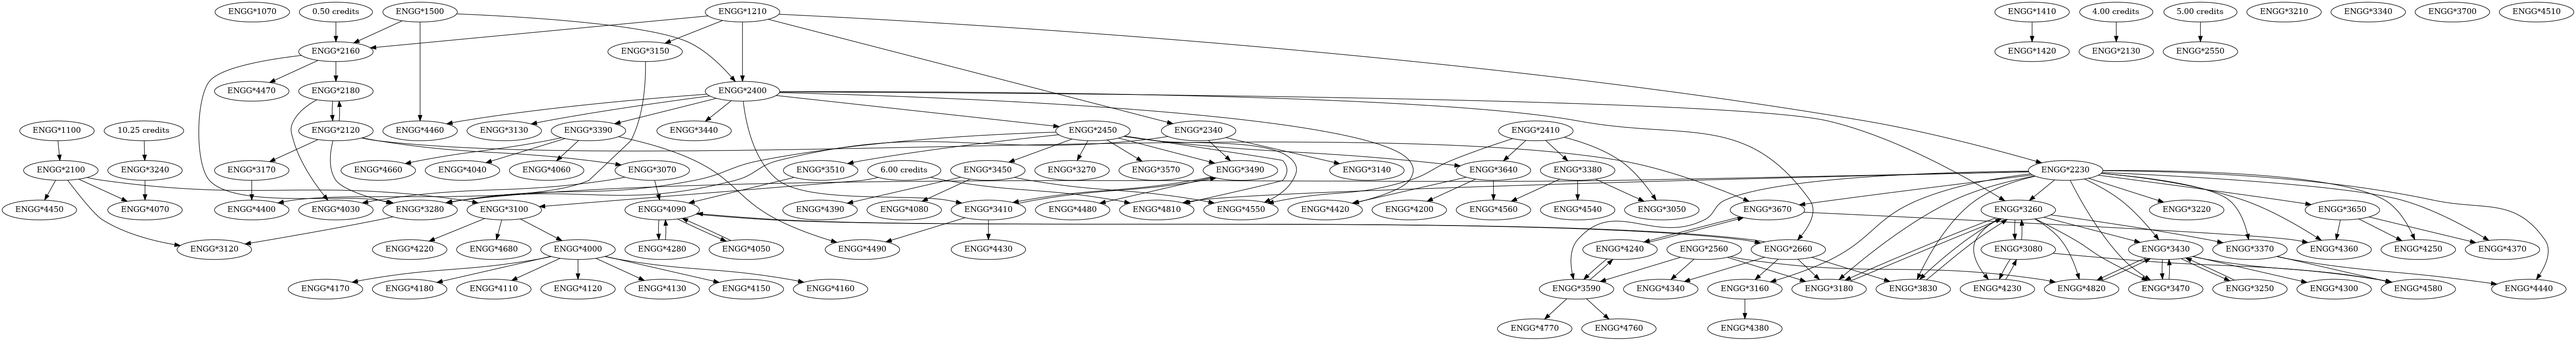
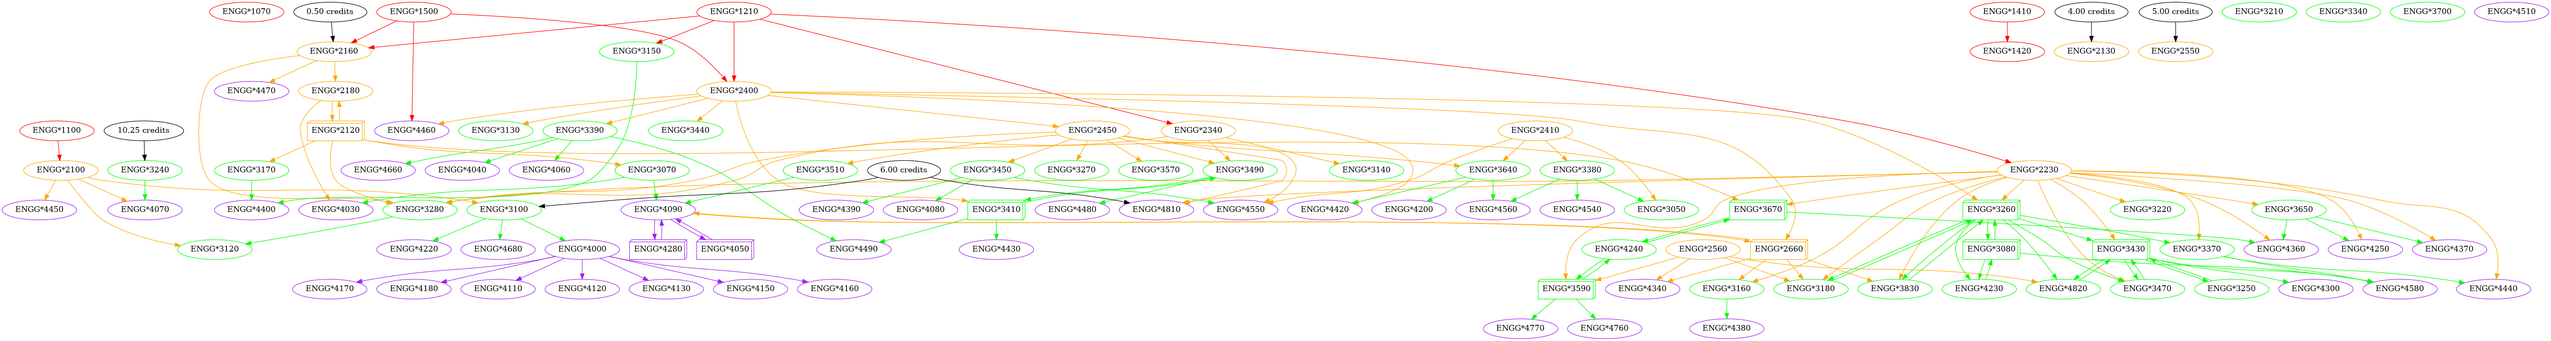
added colouring to major graph

diff --git a/course_graphs/graphFunctions.py b/course_graphs/graphFunctions.py
@@ -46,18 +46,71 @@ def generateGraphByMajor(graph, all_courses, majorName):
     #loop through courses in specified major
     for k, v in all_courses[majorName].items():
         #add node for course 
-        graph.add_node(k)
+        #graph.add_node(k)
+        if(k[len(k) - 4] == '1'):
+            graph.add_node(k, color="red")
+        elif(k[len(k) - 4] == '2'):
+            graph.add_node(k, color="orange")
+        elif(k[len(k) - 4] == '3'):
+            graph.add_node(k, color="green")
+        elif(k[len(k) - 4] == '4'):
+            graph.add_node(k, color="purple")
+        else:
+            graph.add_node(k)
 
         #add edges between prereqs and course
         prereqsList = parseReqs(v["prereqs"], majorName)
         for prereq in prereqsList:
-            graph.add_edge(prereq, k)
+            #graph.add_edge(prereq, k)
+            print(level_counter)
+            if(prereq[len(prereq) - 4] == '1'):
+                graph.add_node(prereq, color="red")
+                graph.add_edge(prereq, k, color="red", shape="box")
+            elif(prereq[len(prereq) - 4] == '2'):
+                graph.add_node(prereq, color="orange")
+                graph.add_edge(prereq, k, color="orange")
+            elif(prereq[len(prereq) - 4] == '3'):
+                graph.add_node(prereq, color="green")
+                graph.add_edge(prereq, k, color="green")
+            elif(prereq[len(prereq) - 4] == '4'):
+                graph.add_node(prereq, color="purple")
+                graph.add_edge(prereq, k, color="purple")
+            else:
+                graph.add_edge(prereq, k)
+            
+            level_counter = level_counter + 1
+            
 
         #add edges in both directions between coreqs and course
         coreqsList = parseReqs(v["coreqs"], majorName)
         for coreq in coreqsList:
-            graph.add_edge(coreq, k)
-            graph.add_edge(k, coreq)
+            if(coreq[len(coreq) - 4] == '1'):
+                graph.add_node(coreq, color="red", shape="box3d")
+                graph.add_edge(coreq, k, color="red")
+                graph.add_node(k, color="red")
+                graph.add_edge(k, coreq, color="red")
+            elif(coreq[len(coreq) - 4] == '2'):
+                graph.add_node(coreq, color="orange", shape="box3d")
+                graph.add_edge(coreq, k, color="orange")
+                graph.add_node(k, color="orange")
+                graph.add_edge(k, coreq, color="orange")
+            elif(coreq[len(coreq) - 4] == '3'):
+                graph.add_node(coreq, color="green", shape="box3d")
+                graph.add_edge(coreq, k, color="green")
+                graph.add_node(k, color="green")
+                graph.add_edge(k, coreq, color="green")
+            elif(coreq[len(coreq) - 4] == '4'):
+                graph.add_node(coreq, color="purple", shape="box3d")
+                graph.add_edge(coreq, k, color="purple")
+                graph.add_node(k, color="purple")
+                graph.add_edge(k, coreq, color="purple")
+            else:
+                graph.add_edge(coreq, k)
+                graph.add_edge(k, coreq)
+                
+
+        level_counter = 0
+        
 
 def generateGraphByCourse(course_graph, all_courses, course, level_counter):
     """Recursivevly generates a graph for a specified course.
@@ -70,19 +123,11 @@ def generateGraphByCourse(course_graph, all_courses, course, level_counter):
     Returns:
         [course_graph]: [graph of specified course]
     """
-    #check if all_courses is dict
-    if isinstance(all_courses, dict):    
 
-        #traverse first layer of json data (ex. "ACCT", "AGR", "ANSC", etc...)
-        for k, v in all_courses.items():
-
-            #traverse second layer of json data (course codes)
-            for b, n in v.items():
-
+    if isinstance(all_courses, dict):           #check if all_courses is dict
+        for k, v in all_courses.items():        #traverse first layer of json data (ex. "ACCT", "AGR", "ANSC", etc...)
+            for b, n in v.items():              #traverse second layer of json data (course codes)
                 if (b == course):
-                    print(level_counter)
-                    print(b)
-
                     if n["prereqs"]:
                         pattern = re.compile(r"[a-zA-Z]+\*[0-9]+")
                         prereqsList = re.findall(pattern, n["prereqs"])
@@ -91,13 +136,13 @@ def generateGraphByCourse(course_graph, all_courses, course, level_counter):
                             if(level_counter == 0):
                                 course_graph.add_node(b, shape="box")
                                 course_graph.add_edge(prereq, b, color="red", shape="box")
-                            if(level_counter == 1):
+                            elif(level_counter == 1):
                                 course_graph.add_edge(prereq, b, color="orange")
-                            if(level_counter == 2):
+                            elif(level_counter == 2):
                                 course_graph.add_edge(prereq, b, color="green")
-                            if(level_counter == 3):
+                            elif(level_counter == 3):
                                 course_graph.add_edge(prereq, b, color="purple")
-                            if(level_counter == 4):
+                            elif(level_counter == 4):
                                 course_graph.add_edge(prereq, b, color="blue")
                             else:
                                 course_graph.add_edge(prereq, b)
